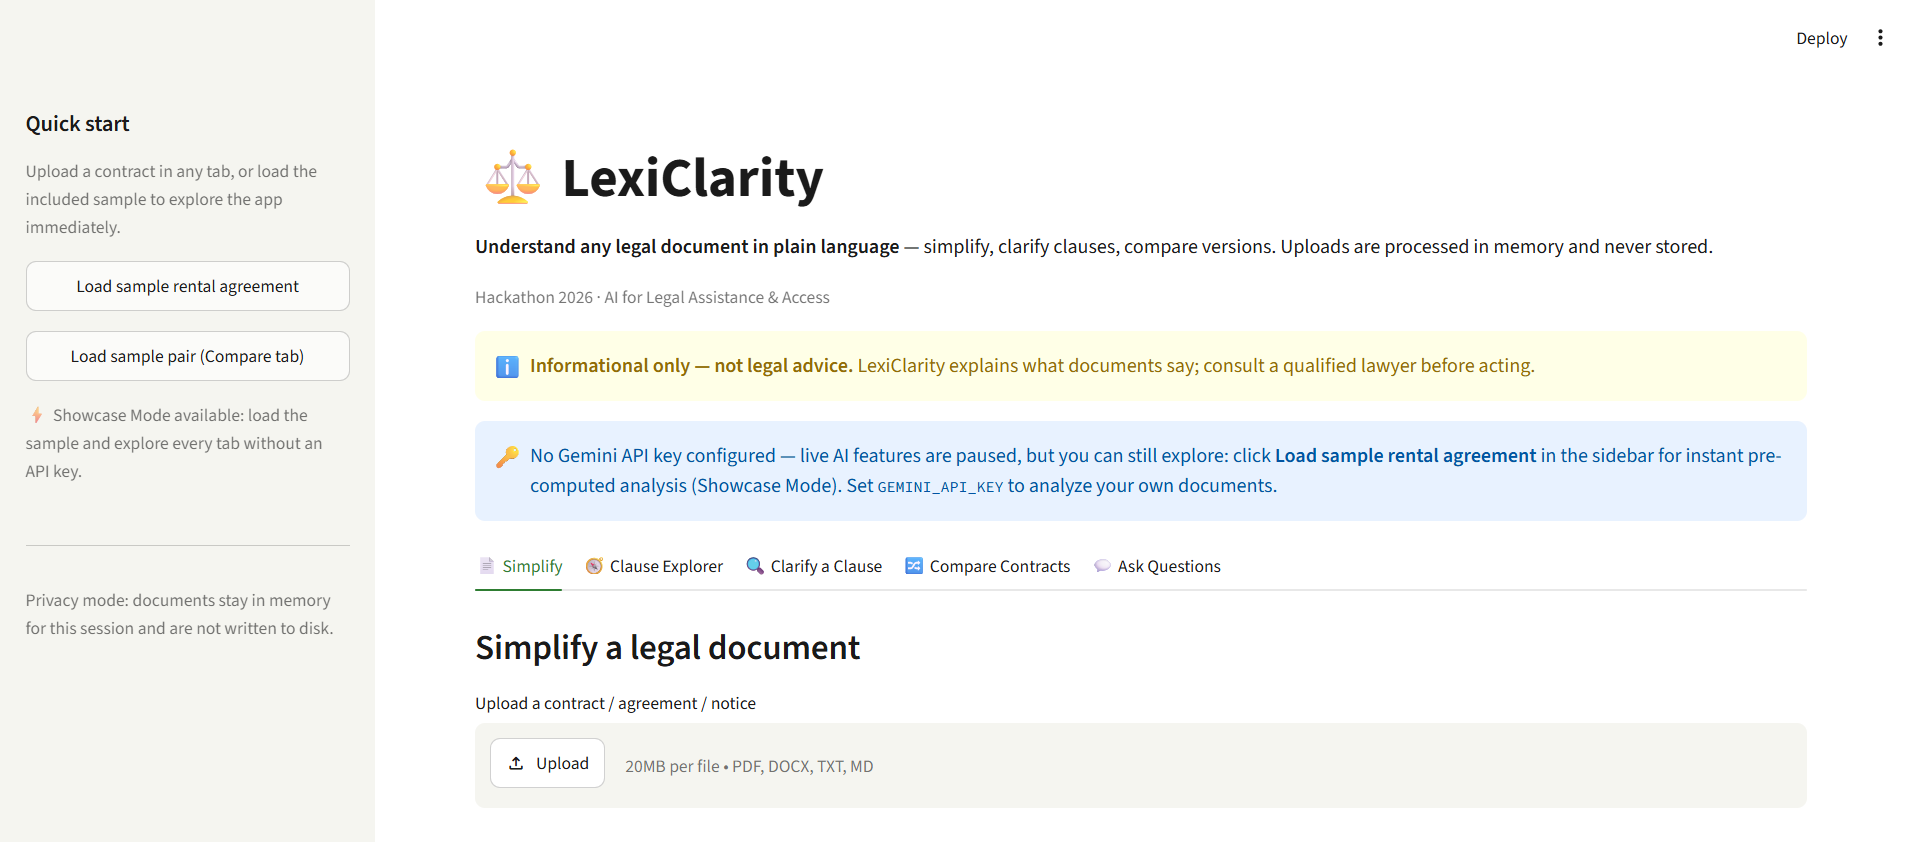
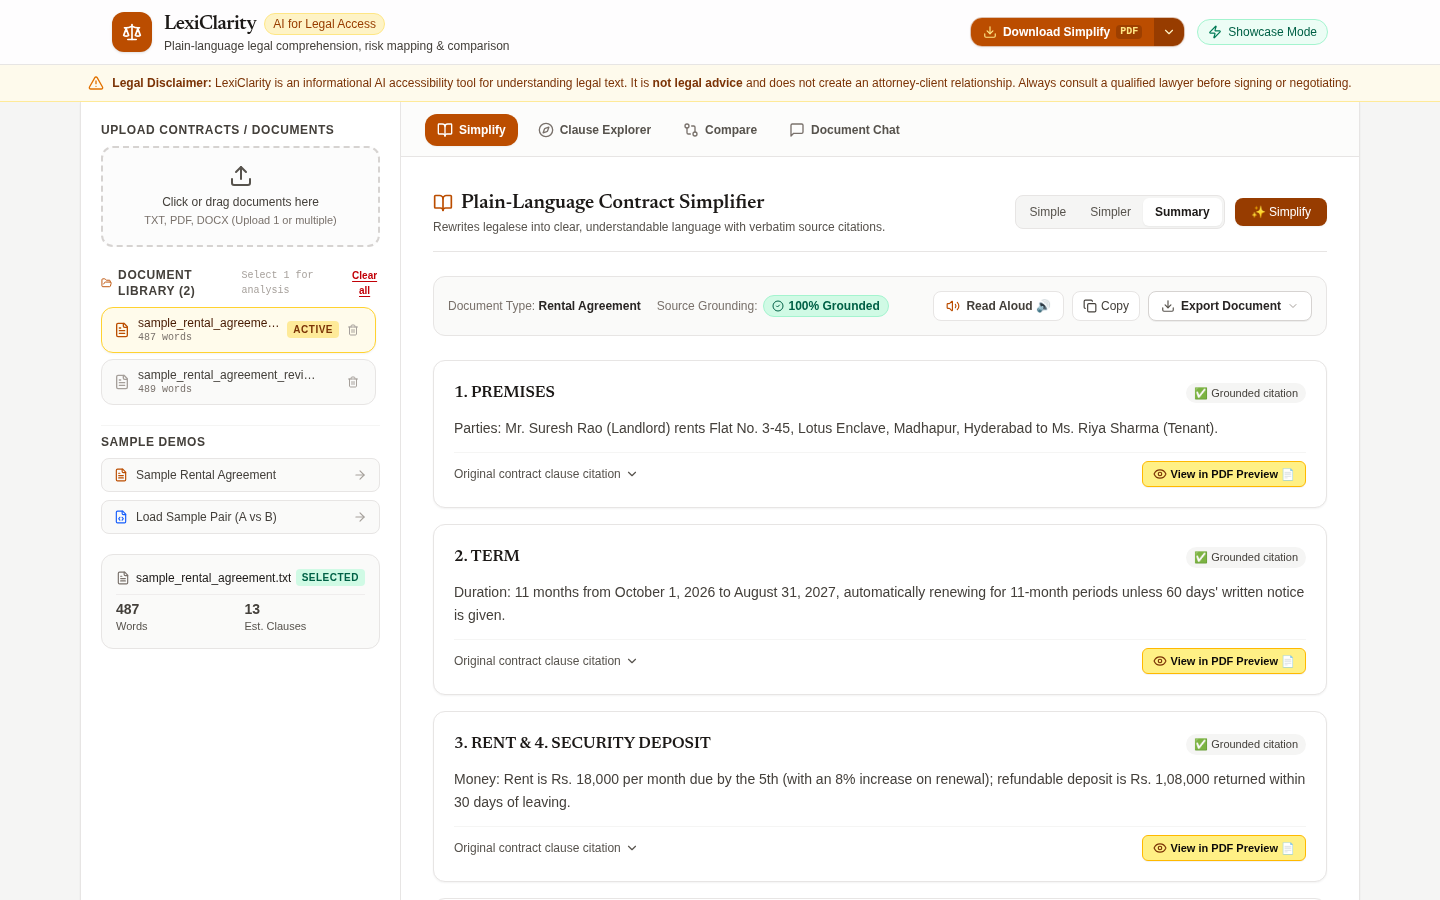
docs: replace outdated README screenshot with the current app showing grounded output

diff --git a/README.md b/README.md
@@ -2,7 +2,7 @@
 
 > **LexiClarity helps non-lawyers understand what a legal document says, see how changes affect them, and identify what deserves attention — without pretending to replace a lawyer.**
 
-![LexiClarity landing page with the bundled sample agreement](docs/screenshot.png)
+![LexiClarity simplifying the bundled sample rental agreement, with every section 100% grounded in a source citation](docs/screenshot.png)
 
 **AI for Legal Assistance & Access** — a GenAI web app that makes legal documents understandable to non-lawyers. Built for Hackathon. See [PRD.md](PRD.md).
 
